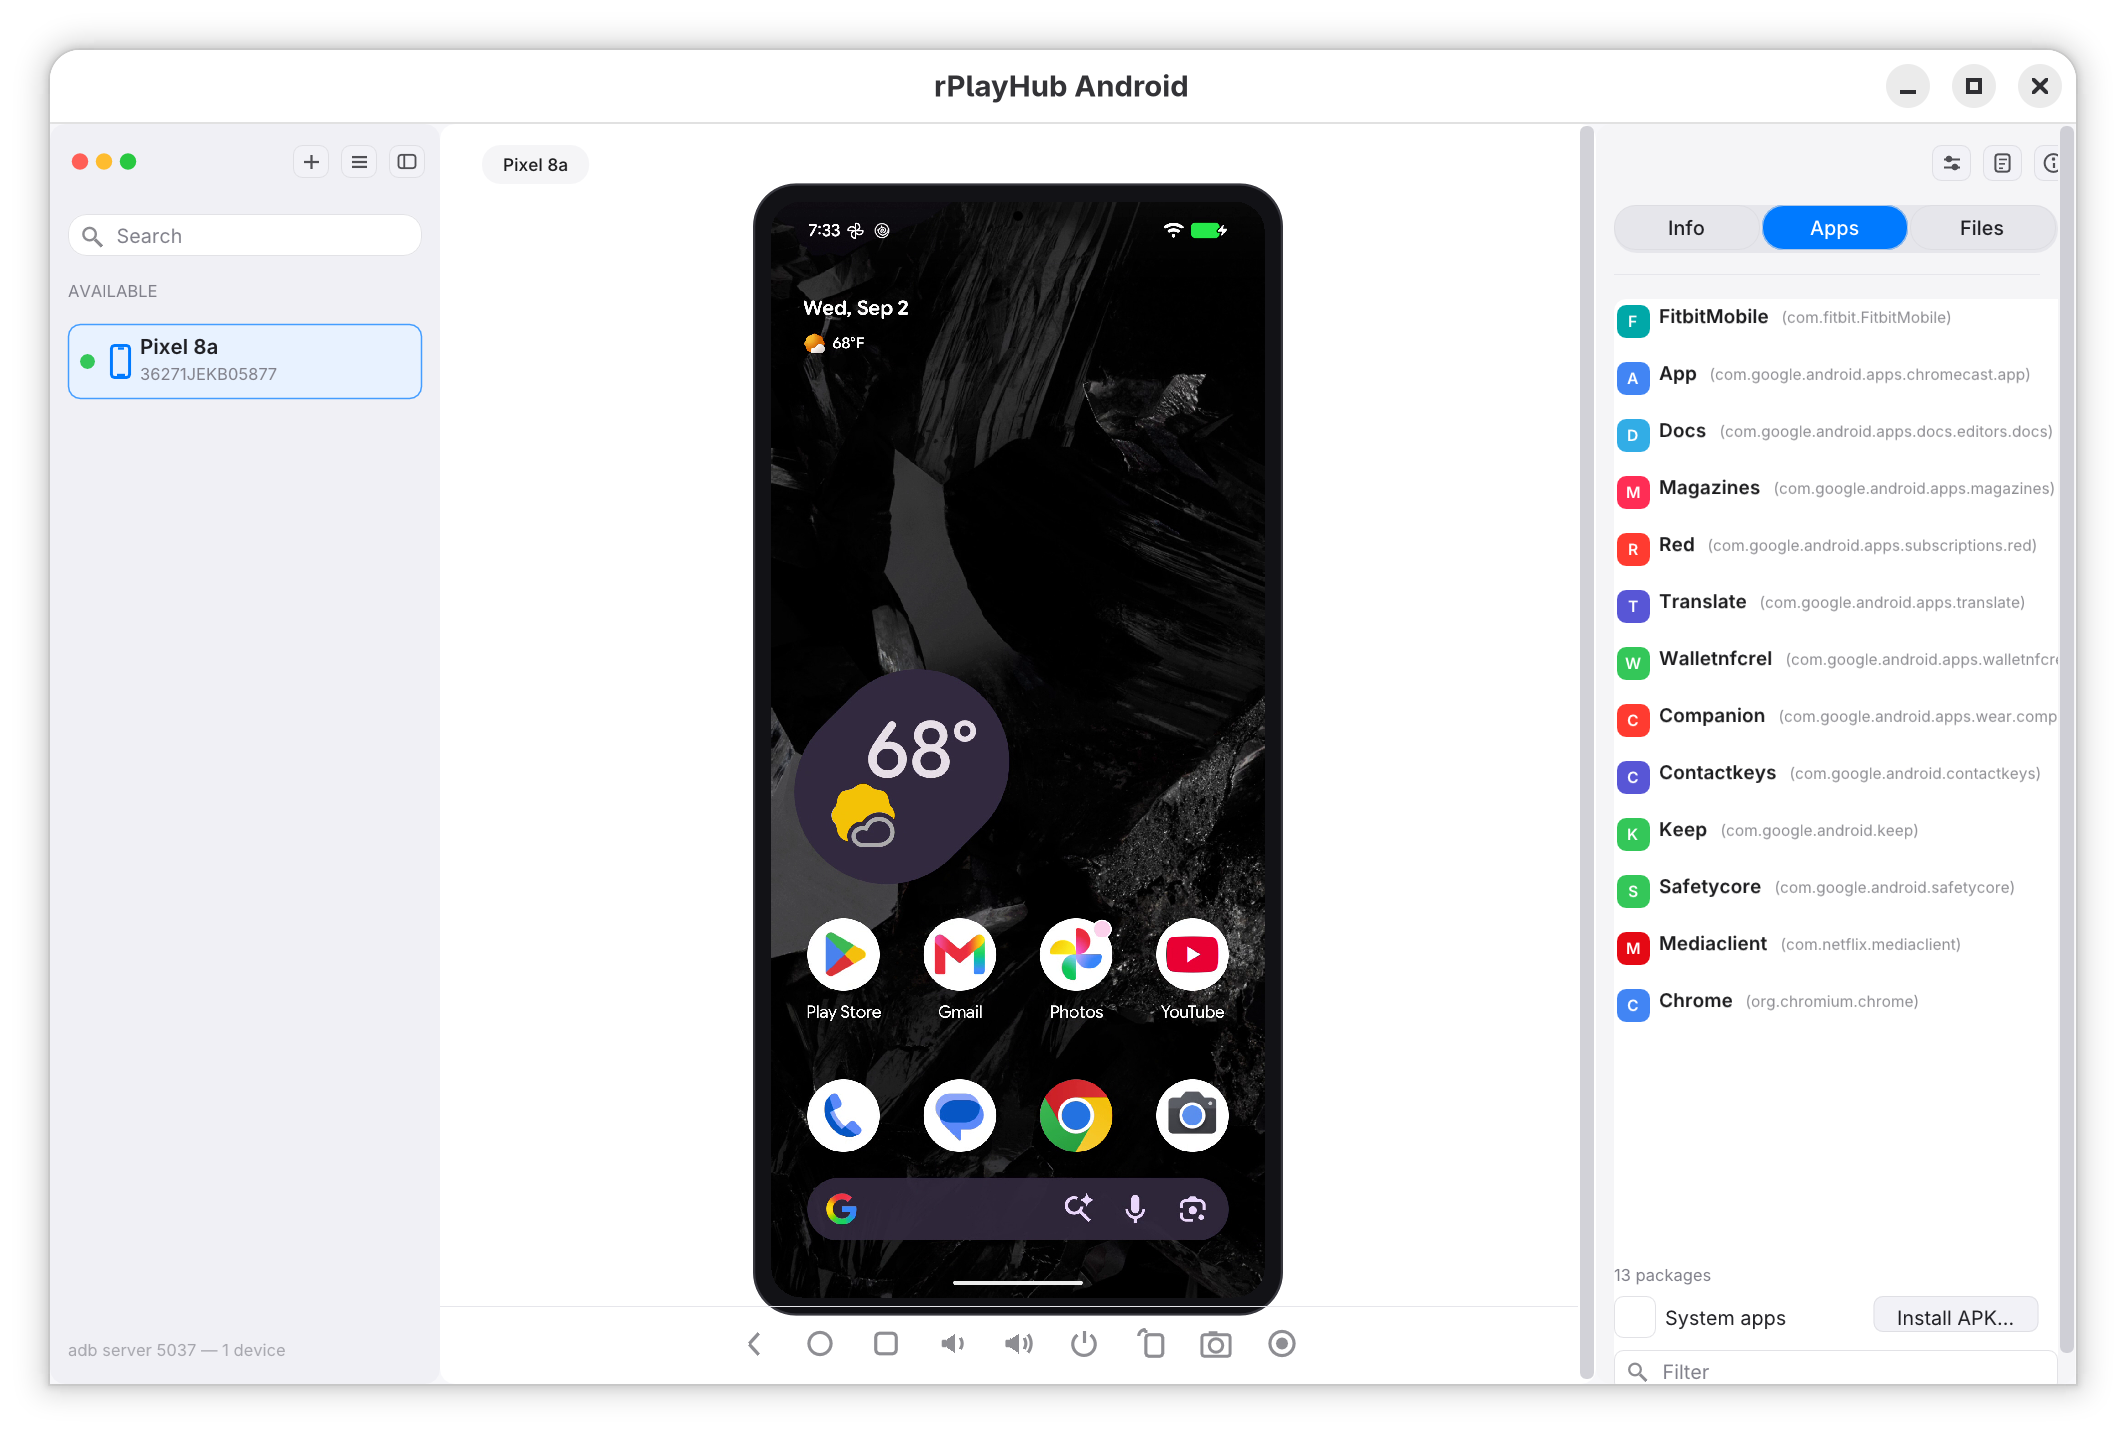
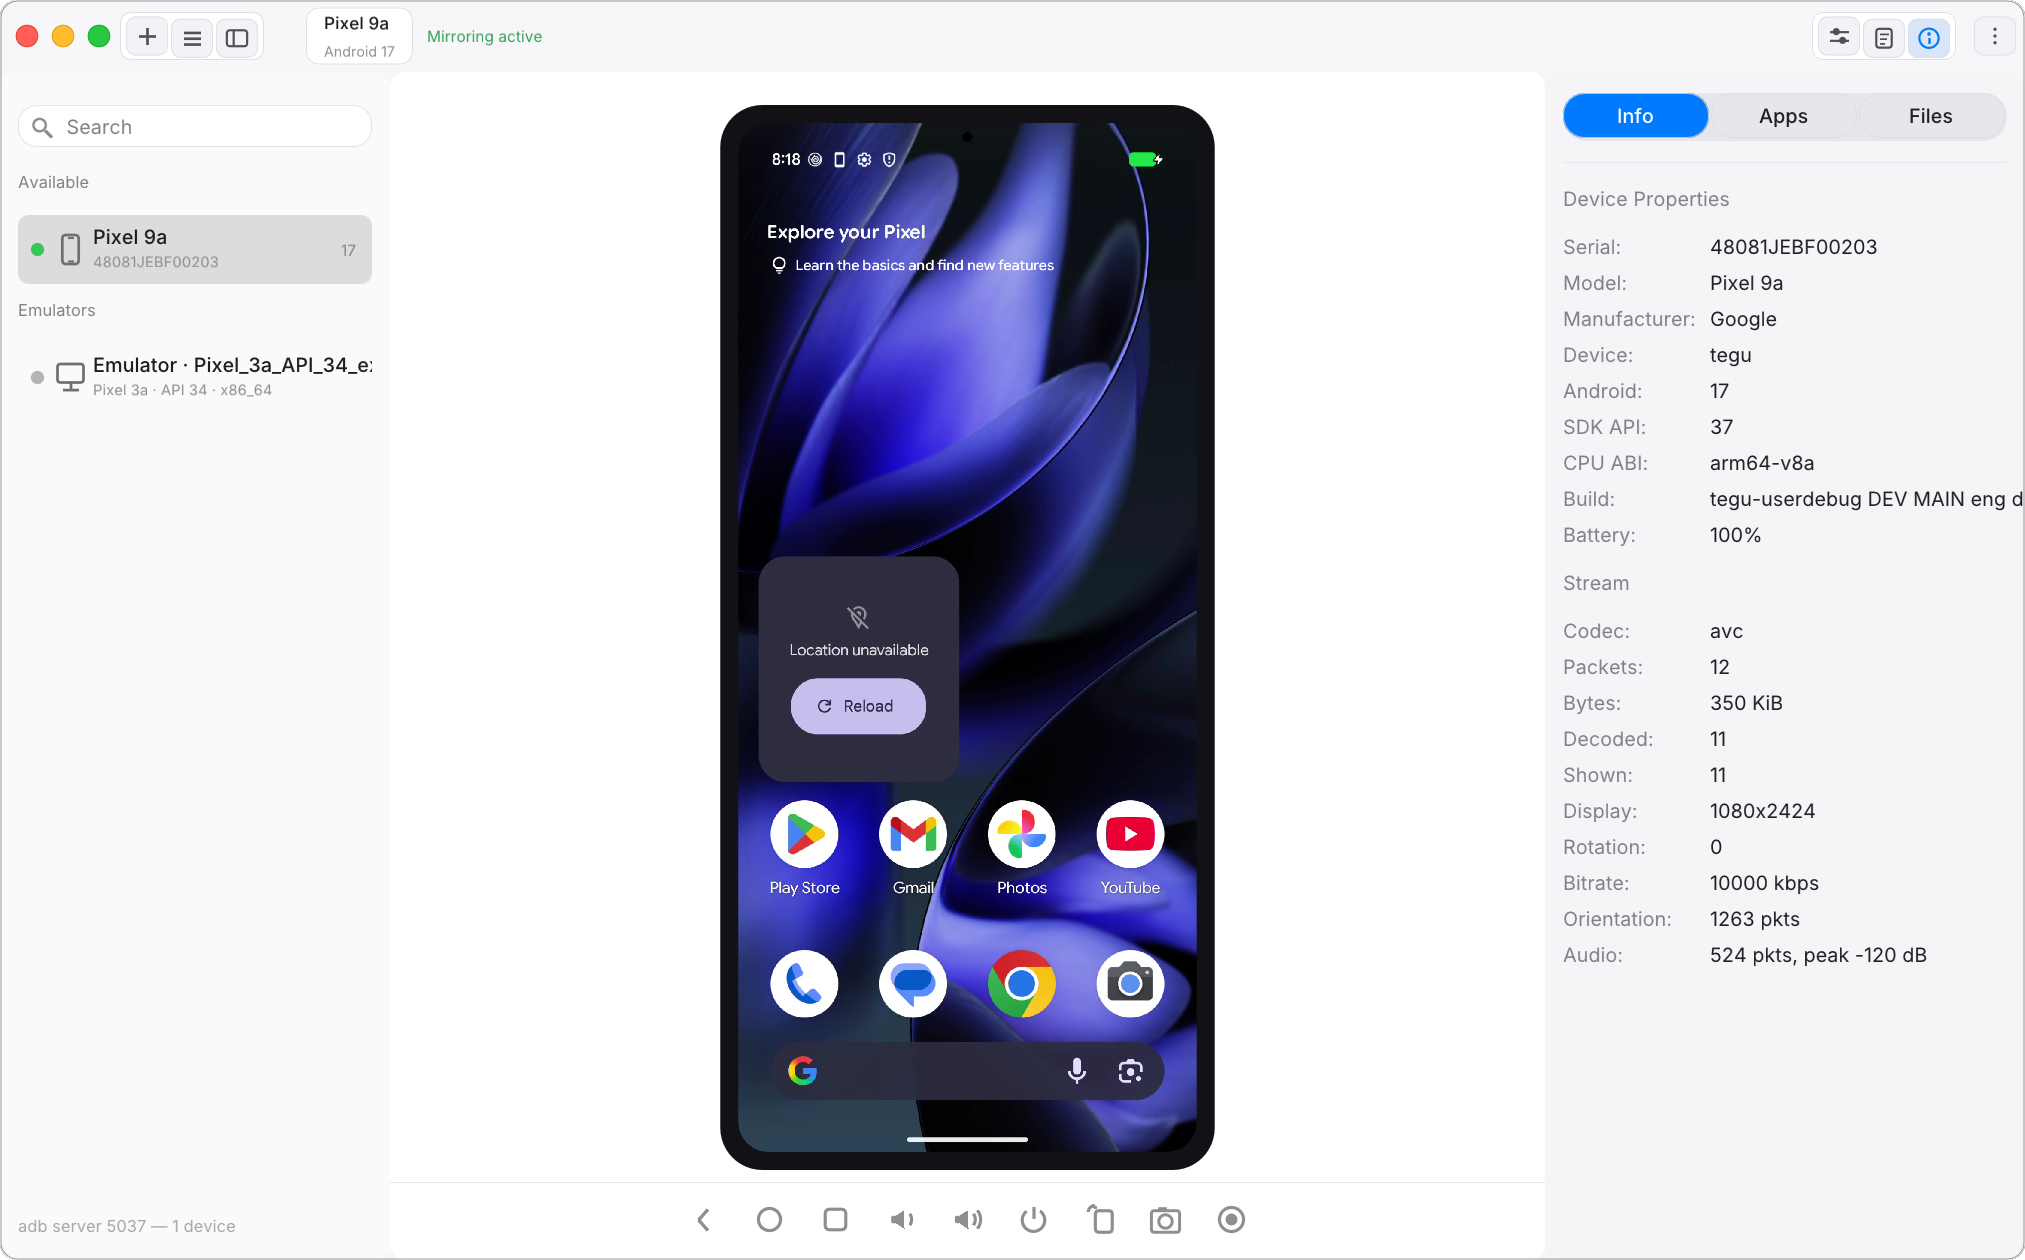
README: the main window on macOS and on Linux, labelled; fresh Linux screenshot
Claude-Session: https://claude.ai/code/session_01Pn1MFfRPuBRv5D9a4fzJfG

diff --git a/README.md b/README.md
@@ -14,10 +14,19 @@ Studio's *Running Devices*), driven over `adb`, with a native app in front of it
 It is for developers — every device, every emulator, every API level from Android 5.0 up — and
 just as much for anyone who wants their phone on a bigger screen.
 
-![The main window: devices in the sidebar, the phone mirrored in the middle, its info, apps and files on the right](doc/rPlayHub-android-gui.png)
+**macOS**
 
-*The main window — a Pixel 9a and an Android 5.1 car unit over USB, a VM in the list, the
-phone live in the middle, its info, apps and files on the right.*
+![The macOS main window: devices in the sidebar, the phone mirrored in the middle, its info, apps and files on the right](doc/rPlayHub-android-gui.png)
+
+*macOS — a Pixel 9a and an Android 5.1 car unit over USB, a VM in the list, the phone live in
+the middle, its info, apps and files on the right.*
+
+**Linux**
+
+![The Linux main window: the same layout, the Pixel 9a mirrored in the middle, an emulator in the sidebar, the Info tab on the right](doc/rPlayHub-android-linux.png)
+
+*Linux (Ubuntu 22.04) — the same Pixel 9a over USB, an emulator in the sidebar, the Info tab
+with the device and stream details.*
 
 Sibling project: `~/rplay-hub`, the same thing for iPhone. This one is the easier half, and the
 reason is worth stating plainly: on iOS we had to reverse-engineer CoreDevice and write both
